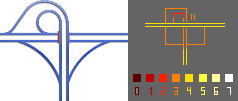
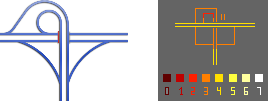
Doku: Added some text to interchange section

diff --git a/doc/dokumentation_mielers_schroer.tex b/doc/dokumentation_mielers_schroer.tex
@@ -362,7 +362,7 @@ Bei der Simulation des Verkehrsflusses an einem Kreisverkehr gibt es Verzweigung
 
 \begin{figure}[h!]
 	\centering
-	\includegraphics[width=8cm]{img/roundaboutSmall}
+	\includegraphics[width=6cm]{img/roundaboutSmall}
 	\caption{Kreisverkehr mit eingetragenen Höchstgeschwindigkeiten}
 	\label{fig:roundaboutSmall}
 \end{figure}
@@ -419,6 +419,17 @@ Ein Vorzug des entwickelten Algorithmus ist seine allgemeingültigkeit. Er läss
 	\includegraphics[width=8cm]{img/interchangeTrumpetSpeedLimits}
 	\caption{Autobahndreieck. Links: Schematische Darstellung \cite{wiki:trumpetInterchange}, Rechts: Umsetzung mit Maximalgeschwindigkeiten}
 	\label{fig:interchangeTrumpet}
+\end{figure}
+
+Hierbei nehmen wir auf den Autobahnen ein Tempolimit von 4 (also $108km/h$) in der Nähe des Dreiecks an. Für die Verbindungsstraßen werden Limits von 3 ($81km/h$) bzw. 2 ($54km/h$) entsprechend ihrer Krümmung aus. Da die von unten kommende Autobahn unter (oder über) der anderen verlaufen muss und damit die selben Zellen nutzen würde, wäre diese Formation mit regulären zellulären Automaten nicht darstellbar. In der Repräsentation als Graph auf der unser Algorithmus arbeitet, ist dies jedoch kein Problem. Zur graphischen Aufbereitung platzieren wir das Unterführungsstück isoliert abseits der anderen Straßen, wie in \ref{fig:interchangeTrumpet} zu sehen.
+
+Ebenso wie der Kreisverkehr verfügt dieses System über 3 Quellen und 3 Senken, verhält sich unter hoher Verkehrslast allerdings wesentlich zuverlässiger. Selbst bei einer Erzeugungsrate von $1.00$, wenn also wann immer möglich ein Fahrzeug eingefügt wird, kommt es nicht zu permanenten Staus.
+
+\begin{figure}[h!]
+	\centering
+	\includegraphics[width=\textwidth]{img/interchangeTrumpet_100}
+	\caption{Erzeugungsrate 1.00. Links: Autobahndreieck nach 500 Iterationen, Mitte: Belegungshäufigkeit, Rechts: Durchschnittsgeschwindigkeit}
+	\label{fig:interchangeTrumpet100}
 \end{figure}
 
 \newpage
